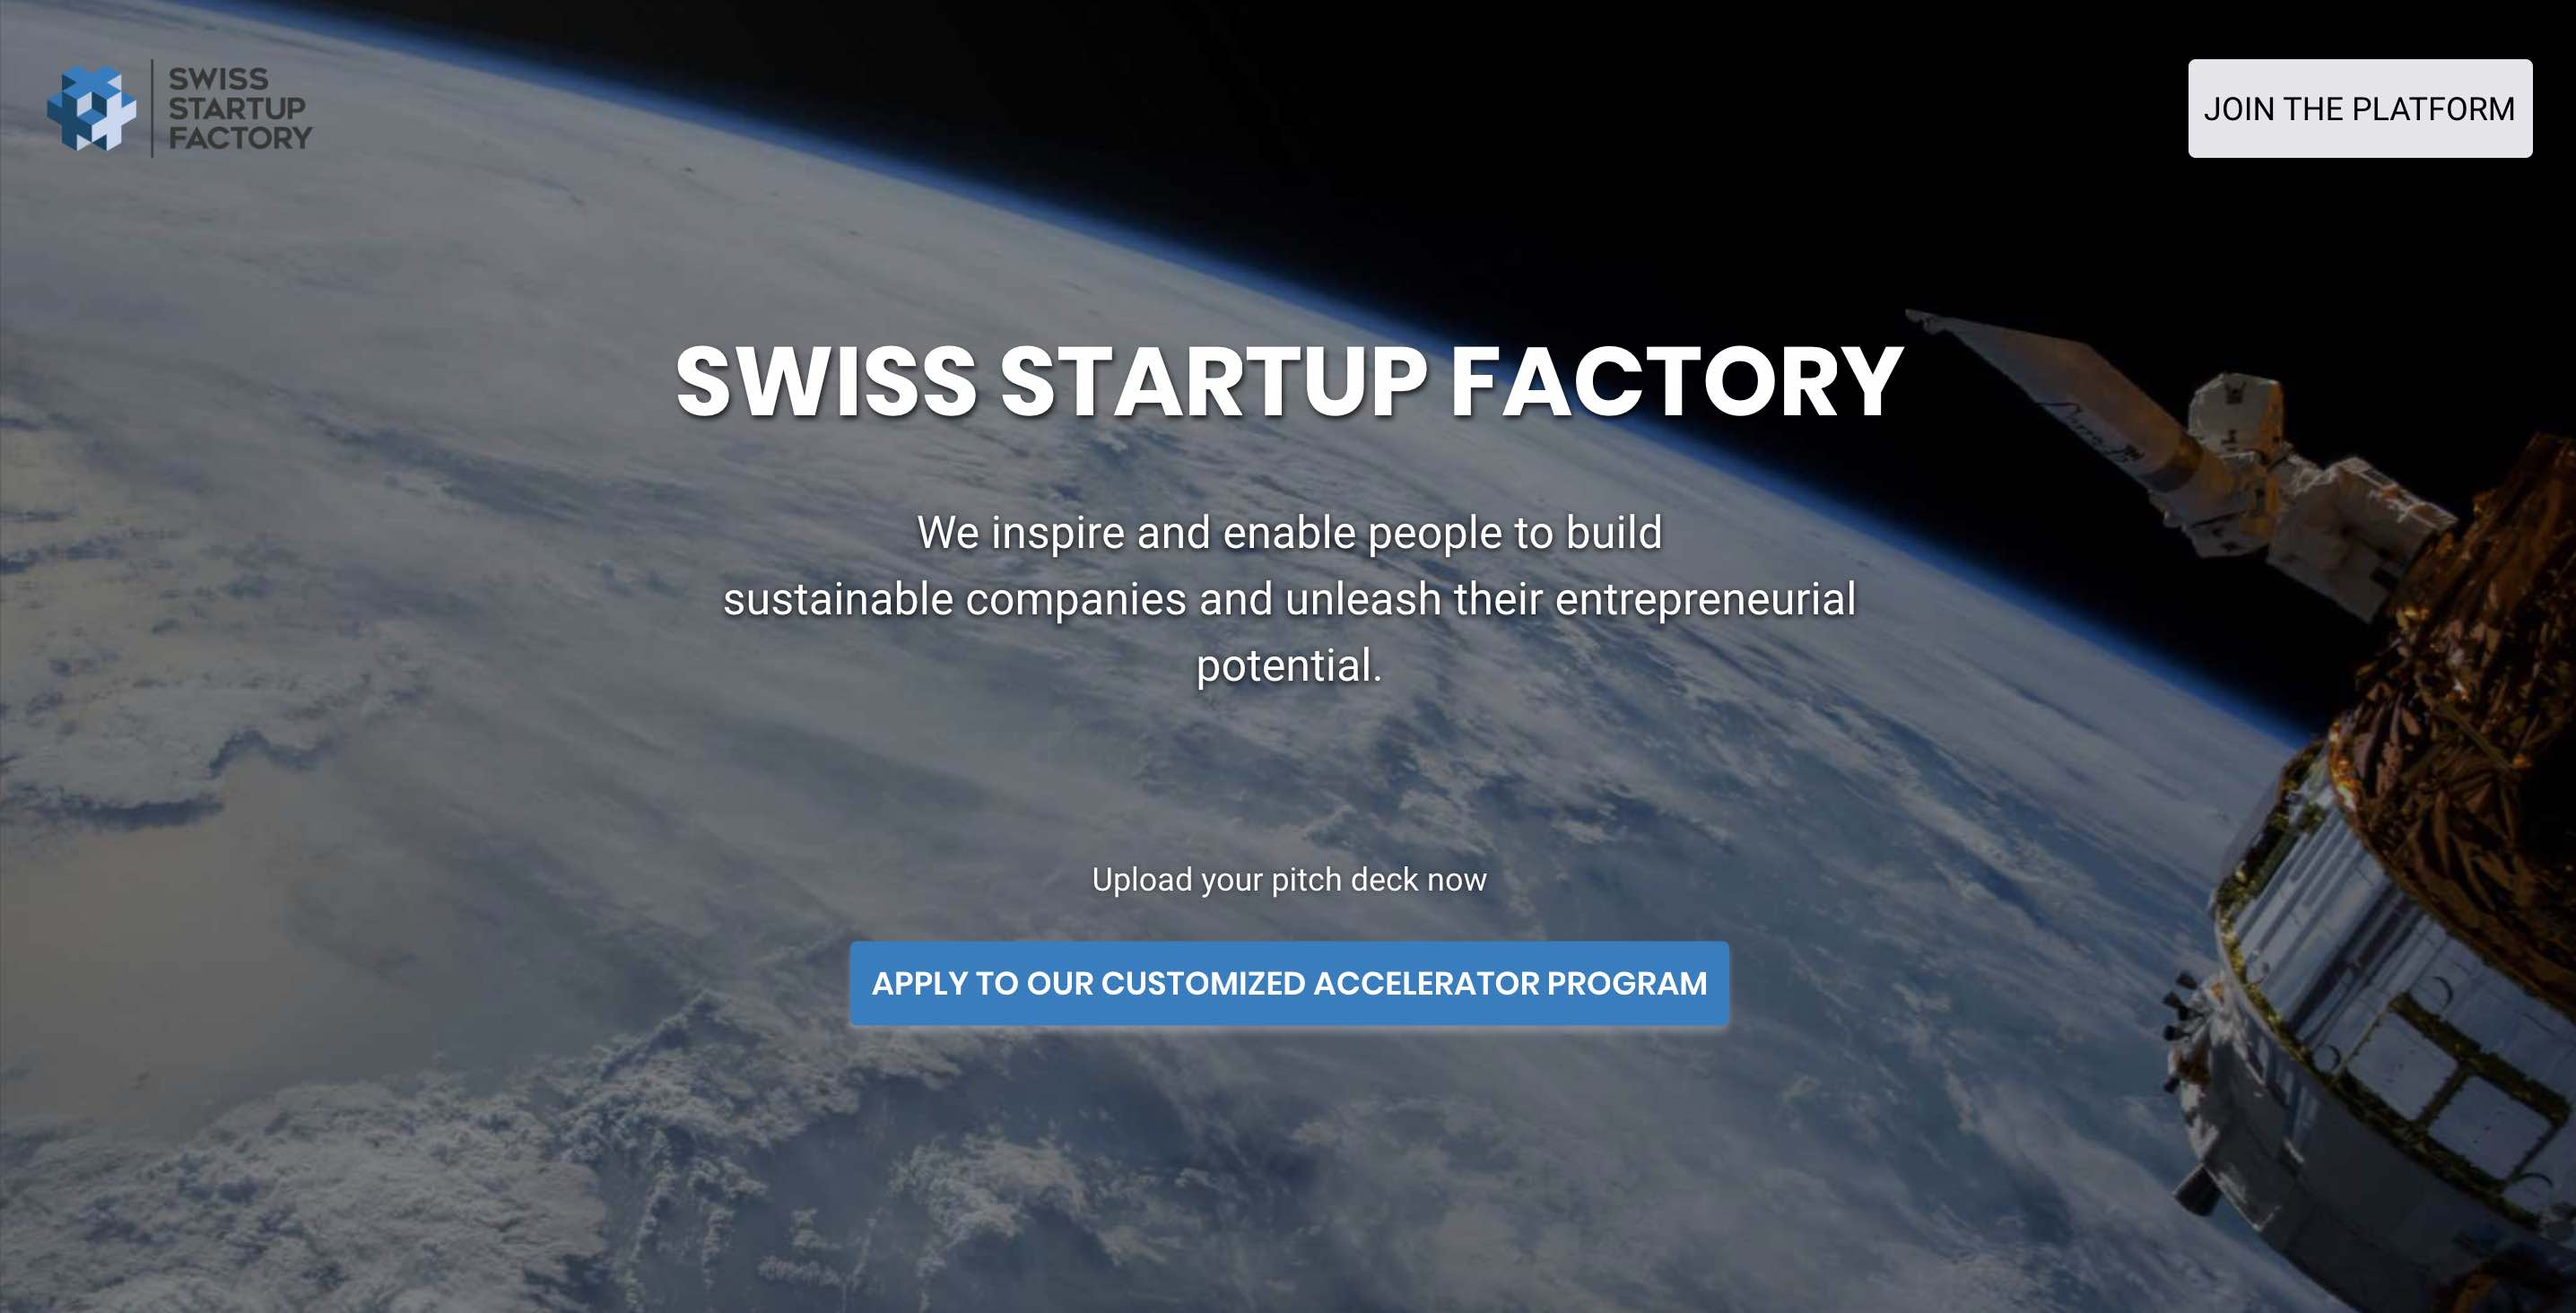
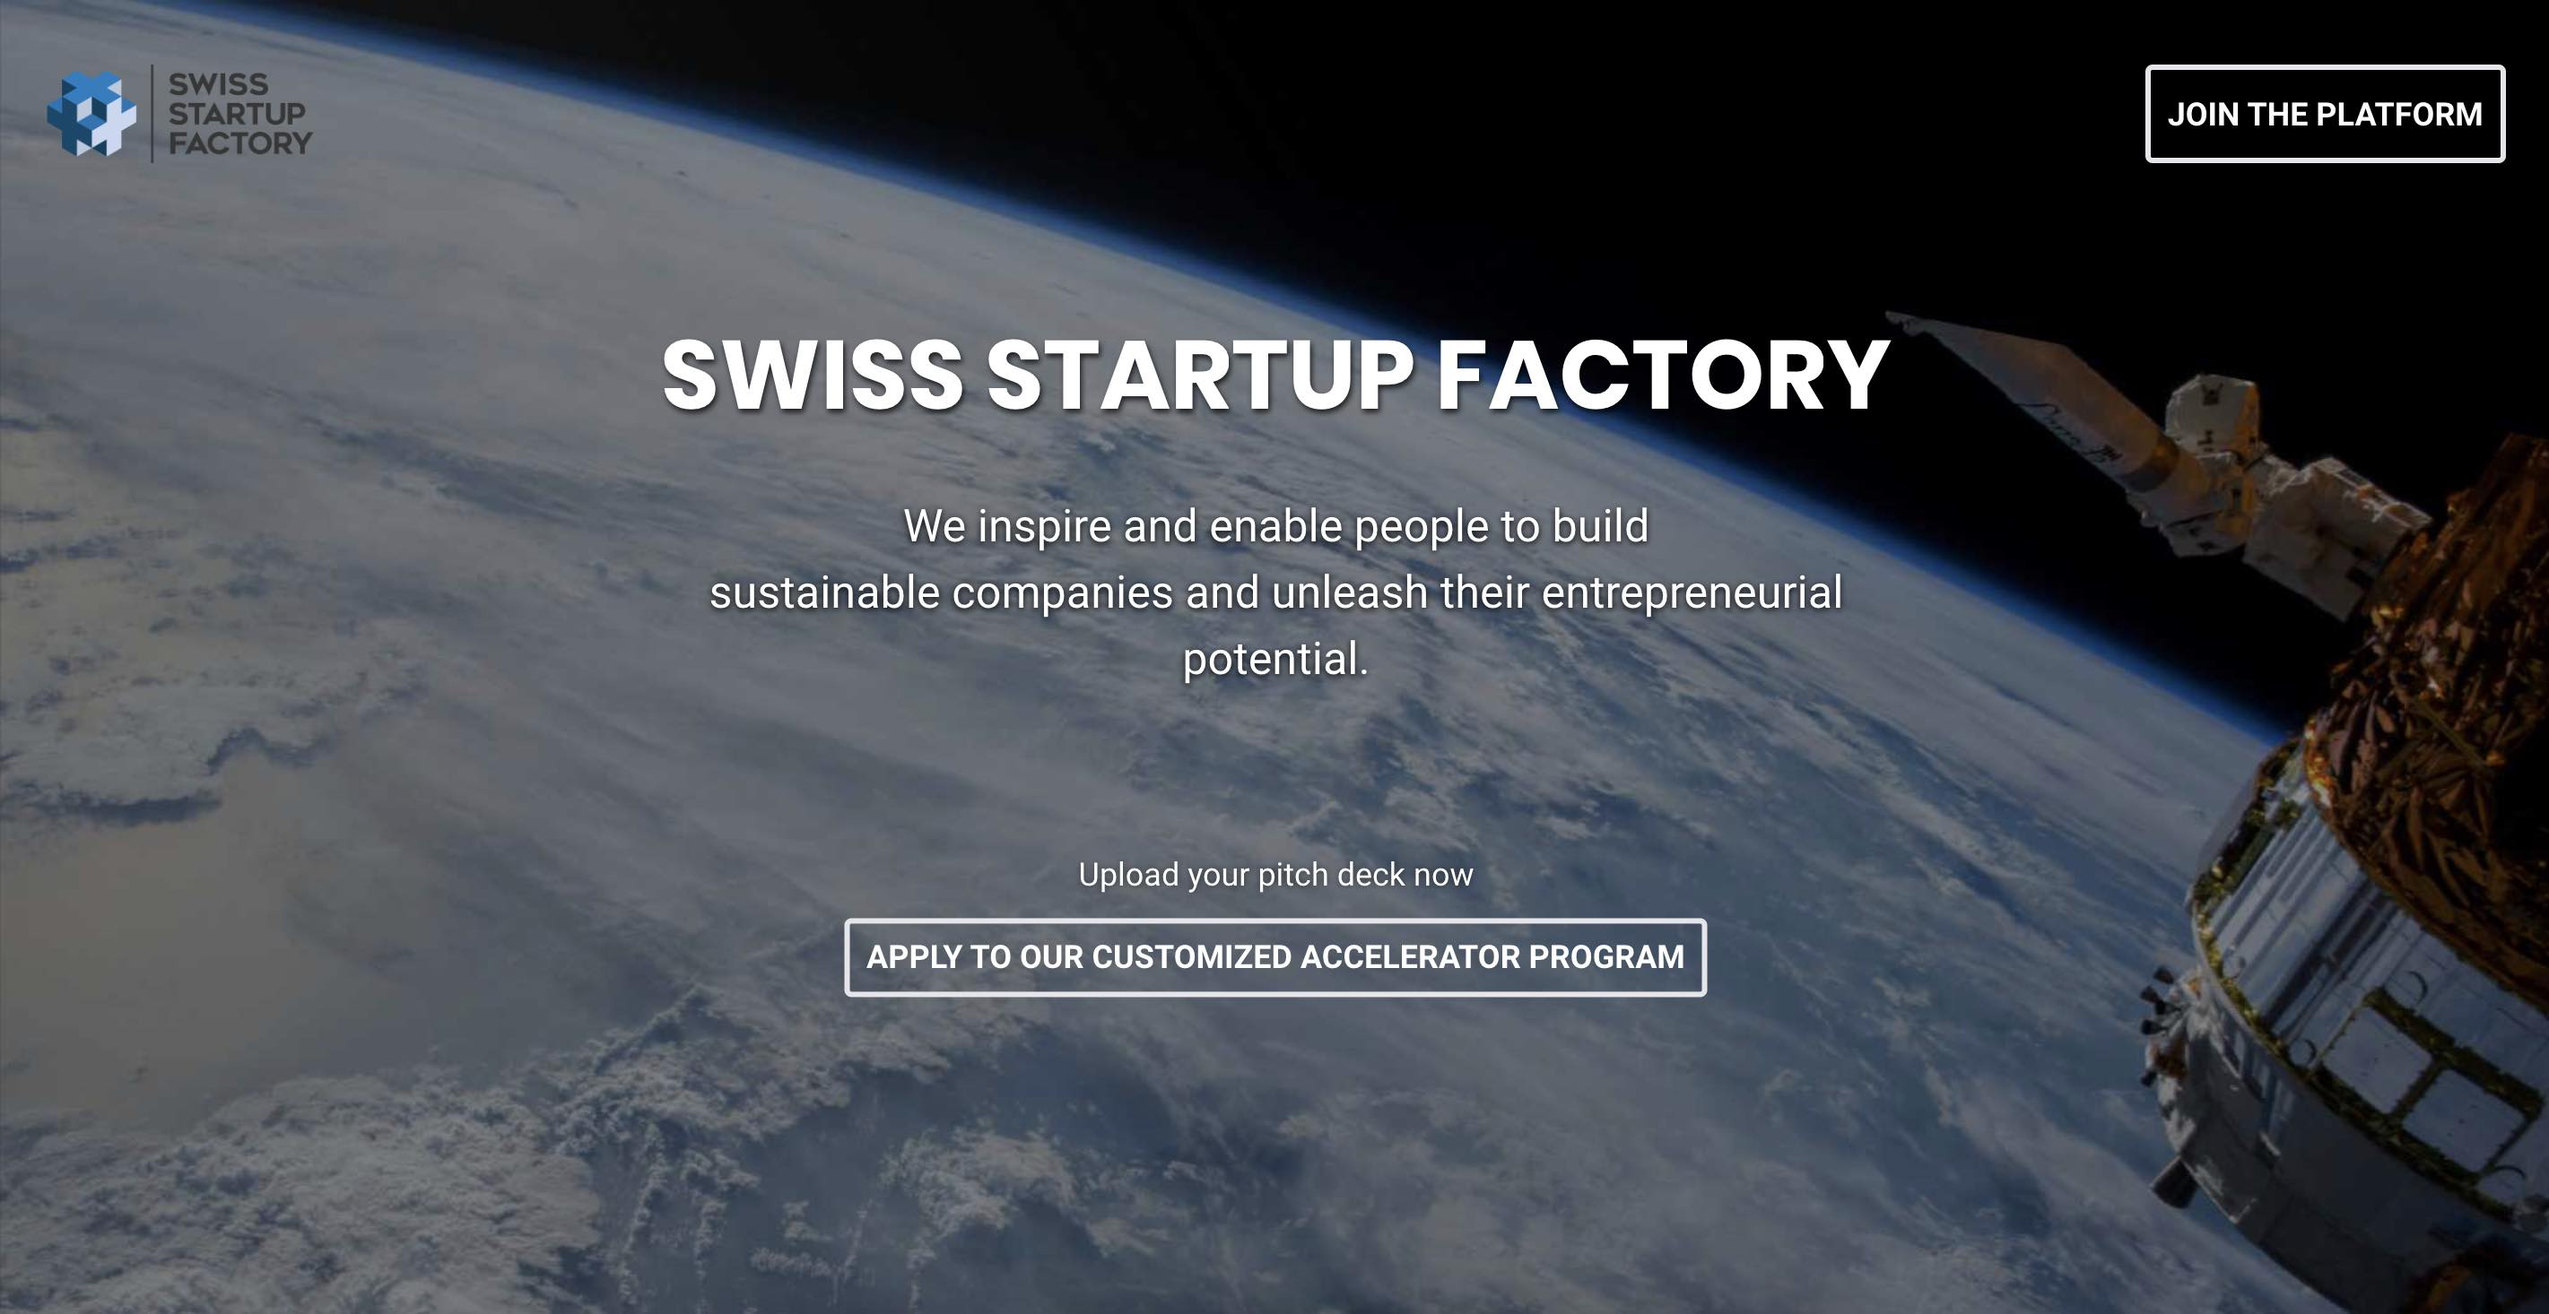
Imprint, Larissa, Social Meta Picture

diff --git a/src/components/pictureslider/aboutgroupslider.jsx b/src/components/pictureslider/aboutgroupslider.jsx
@@ -7,7 +7,7 @@ import Oli from '../../../static/teamssuf/walzer_oliver.jpg';
 import Max from '../../../static/teamssuf/max_meister.jpg';
 import Chris from '../../../static/teamssuf/chris_bargholz.jpg';
 import Ginie from '../../images/ginie.jpg';
-import Cindy from '../../images/cindyspelt.jpg';
+import Larissa from '../../images/larissa.jpg';
 import Keith from '../../../static/teamssuf/keith.jpg';
 import Daniel from '../../../static/teamssuf/daniel.jpg';
 import Jana from '../../../static/teamssuf/jana.jpg';
@@ -223,40 +223,40 @@ style => <animated.div style={{ ...style }} className="flex flex-column flex-row
   </div>
 </div>
 </animated.div>,
-/* style => <animated.div style={{ ...style }} className="flex flex-column flex-row-ns">
-<div className="pr3-ns mb4 mb0-ns w-100 w-40-ns flex items-center">
-  <img src={Cindy} alt="" style={{ maxHeight: '600px' }} />
-</div>
-<div className="w-100 w-60-ns pl3-ns flex items-center justify-center">
-  <div className="paddingfoundersabout">
-    <h4 className="mb1 dimgray">Head of Platform</h4>
-    <h3>Cindy Spelt</h3>
-    <div className="flex">
-       <dl class="lh-title pr1-s pr2-m pr4-l mt0">
-           <dt class="f6 b">Always goes</dt>
-           <dd class="ml0 mb3">Always believe in yourself</dd>
-           <dt class="f6 b mt2">Never without</dt>
-           <dd class="ml0 mb3">My high heels</dd>
-           <dt class="f6 b mt2">As a child, I wanted to be:</dt>
-           <dd class="ml0 mb3">A jet fighter pilot</dd>
-           <dt class="f6 b mt2">Secret Tip:</dt>
-           <dd class="ml0 mb3">How to pack your suitcase in 2 minutes</dd>
-         </dl>
-         <dl class="lh-title mt0">
-           <dt class="f6 b mt2">I can do best</dt>
-           <dd class="ml0 mb3">Listening</dd>
-           <dt class="f6 b mt2">I'm not good at</dt>
-           <dd class="ml0 mb3">Following a recipe, I always have to give it a twist.</dd>
-           <dt class="f6 b mt2">Unbelievable but true</dt>
-           <dd class="ml0 mb3">Playing the drums</dd>
-           <dt class="f6 b mt2">I like</dt>
-           <dd class="ml0 mb3">Drinking a cup of coffee on a terrace in Paris</dd>
-       </dl>
-       </div>
-       <span className="arrows"></span>
-  </div>
-</div>
-</animated.div>, */
+   style => <animated.div style={{ ...style }} className="flex flex-column flex-row-ns">
+   <div className="pr3-ns mb4 mb0-ns w-100 w-40-ns flex items-center">
+     <img src={Larissa} alt="" style={{ maxHeight: '600px' }} />
+   </div>
+   <div className="w-100 w-60-ns pl3-ns flex items-center justify-center">
+     <div className="paddingfoundersabout">
+       <h4 className="mb1 dimgray">Executive Assistant</h4>
+       <h3>Larissa Truffer</h3>
+       <div className="flex">
+          <dl class="lh-title pr1-s pr2-m pr4-l mt0">
+              <dt class="f6 b">No-Go</dt>
+              <dd class="ml0 mb3">Arroganz</dd>
+              <dt class="f6 b mt2">I Like</dt>
+              <dd class="ml0 mb3">Pasta</dd>
+              <dt class="f6 b mt2">Never without</dt>
+              <dd class="ml0 mb3">Mobile phone and handkerchiefs</dd>
+              <dt class="f6 b mt2">My Desktop</dt>
+              <dd class="ml0 mb3">Must be cleaned up every week</dd>
+            </dl>
+            <dl class="lh-title mt0">
+              <dt class="f6 b mt2">Summer Residence</dt>
+              <dd class="ml0 mb3">Lake Zurich</dd>
+              <dt class="f6 b mt2">Winter residence</dt>
+              <dd class="ml0 mb3">Warm Bed</dd>
+              <dt class="f6 b mt2">Unbelievable but true</dt>
+              <dd class="ml0 mb3">I once had red, short hair</dd>
+              <dt class="f6 b mt2">What's easy</dt>
+              <dd class="ml0 mb3">to get up early</dd>
+          </dl>
+          </div>
+          <span className="arrows"></span>
+     </div>
+   </div>
+</animated.div>,
 style => <animated.div style={{ ...style }} className="flex flex-column flex-row-ns">
 <div className="pr3-ns mb4 mb0-ns w-100 w-40-ns flex items-center">
   <img src={Daniel} alt="" style={{ maxHeight: '600px' }} />
@@ -332,7 +332,7 @@ export default class PageTransition extends Component {
 
   toggle = e =>
     this.setState(state => ({
-      index: state.index === 7 ? 0 : state.index + 1,
+      index: state.index === 8 ? 0 : state.index + 1,
     }));
 
   render() {

diff --git a/src/pages/imprint.jsx b/src/pages/imprint.jsx
@@ -26,9 +26,9 @@ const Imprint = () => (
     <Title>
     <h2>Imprint and Contact Information</h2>
     </Title>
-    <p>Swiss Startup Group</p>
-    <p>Kantonsstrasse 25</p>
-    <p>8807 Freienbach</p>
+    <p>Swiss Startup Factory</p>
+    <p>Hardturmstrasse 161</p>
+    <p>8005 Zürich</p>
     <p>Switzerland</p>
     <a href="mailto:media@ssuf.ch">media@ssuf.ch</a>
      
@@ -39,11 +39,11 @@ const Imprint = () => (
     <p>Michael Widmer</p>
      
     <Title><b>Commercial register entry</b></Title> 
-    <p>Registered company name: Swiss Startup Group</p>
-    <p>Commercial Register No: CHE-407.344.141</p>
+    <p>Registered company name: Swiss Startup Factory</p>
+    <p>Commercial Register No: CHE-477.778.935</p>
     
     <Title><b>VAT number</b></Title>
-    <p>CHE-407.344.141 MWST</p>
+    <p>CHE-477.778.935</p>
      
 
     <Title><b >Disclaimer</b></Title>

diff --git a/src/pages/index.jsx b/src/pages/index.jsx
@@ -29,7 +29,7 @@ const HeroInner = styled.div`
   }
   @media (min-width: 1200px) {
     position: absolute;
-    top: 450px;  /* position the top  edge of the element at the middle of the parent */
+    top: 350px;  /* position the top  edge of the element at the middle of the parent */
     left: 50%; /* position the left edge of the element at the middle of the parent */
     text-align: center;
     transform: translate(-50%, -50%);
